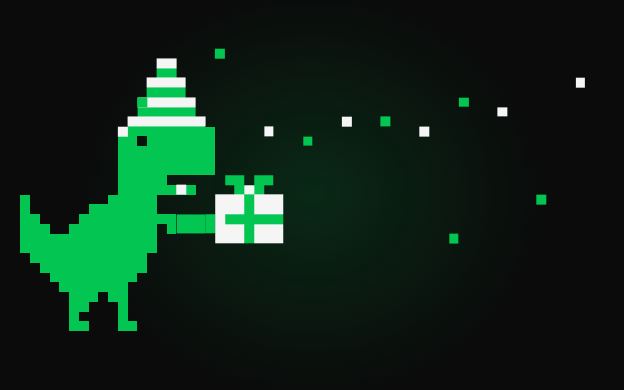
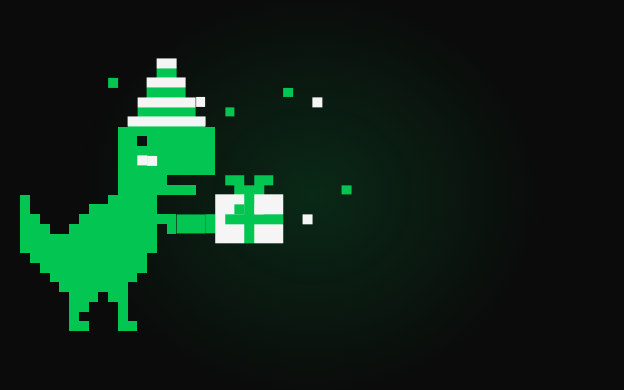
docs: session 11h follow-up 2, step spacing and confetti captures
Claude-Session: https://claude.ai/code/session_011Bwqbz1xrnbmBZhafCKopb

diff --git a/docs/PLAN.md b/docs/PLAN.md
@@ -279,4 +279,4 @@ Decided the same day (Session 11g): Terminal ships as the default; Chat and Badg
 
 ## 22. Amendments — the dino process scene, reviewed (September 8, 2026)
 
-Ashton's review of §21, applied the same day (Session 11h). **Hats are worn**: every hat's brim covers the head's top row and is drawn the head's width, so the deerstalker, the hard hat (now a dome with a ridge and a visor, not a cone) and the party hat sit on the head. **The team is the same dino**: Match shows the footer T-rex three times, the lead facing two mirrored teammates, one in square glasses and one in a backwards cap; the other species are gone. **Deliver has one dinosaur**: the partner is gone, the T-rex holds the gift out at its side toward the step text and the confetti falls across the whole stage; the arm stays joined to the body and to the box in every frame (it gains a cell as the box is pushed forward). **The dissolve runs on its own clock**: the scroll only picks the step (nearest step centre, with a small hysteresis band at each midpoint), and the scene then dissolves to it cell by cell over about half a second and holds, so each picture is on screen for the whole of its step and no scroll position lands inside a transition; reduced motion cuts instead. Nothing attached to the body is ever translated: the magnifying glass lifts one row rather than circling, and each moving prop is drawn as whole frames that start beside the hand. Later the same day (September 9): the teammates are two smaller plain copies of the T-rex (a hand-reduced 14 × 16 map on the same grid), one pink and one blue; `--pink #FF3D9E` and `--blue #3388FF` join the palette as decoration-only tokens built like the greens, and the glasses and the cap are gone.
+Ashton's review of §21, applied the same day (Session 11h). **Hats are worn**: every hat's brim covers the head's top row and is drawn the head's width, so the deerstalker, the hard hat (now a dome with a ridge and a visor, not a cone) and the party hat sit on the head. **The team is the same dino**: Match shows the footer T-rex three times, the lead facing two mirrored teammates, one in square glasses and one in a backwards cap; the other species are gone. **Deliver has one dinosaur**: the partner is gone, the T-rex holds the gift out at its side toward the step text and the confetti falls across the whole stage; the arm stays joined to the body and to the box in every frame (it gains a cell as the box is pushed forward). **The dissolve runs on its own clock**: the scroll only picks the step (nearest step centre, with a small hysteresis band at each midpoint), and the scene then dissolves to it cell by cell over about half a second and holds, so each picture is on screen for the whole of its step and no scroll position lands inside a transition; reduced motion cuts instead. Nothing attached to the body is ever translated: the magnifying glass lifts one row rather than circling, and each moving prop is drawn as whole frames that start beside the hand. Later the same day (September 9): the teammates are two smaller plain copies of the T-rex (a hand-reduced 14 × 16 map on the same grid), one pink and one blue; `--pink #FF3D9E` and `--blue #3388FF` join the palette as decoration-only tokens built like the greens, and the glasses and the cap are gone. Later on September 9: every step is a viewport tall from lg and 60% of one on phones, so a scroll gesture cannot fly past a step, and the confetti falls only over the dino and the gift.

diff --git a/docs/PROGRESS.md b/docs/PROGRESS.md
@@ -133,8 +133,7 @@ still, `process-<width>.png` the section, `nonprofits-how-it-works-1440.png` the
 3. Nothing attached to the body is ever translated: the offer is an extra arm cell plus the
    box moving, the peer is a vertical lift (the handle's first cell stays beside the hand).
 
-**TODO:** Ashton's second look at the scene (the confetti-only right
-half of Deliver now that the partner is gone).
+**TODO:** Ashton's next look at the scene and the step spacing.
 
 **Follow-up (2026-09-09, the same session):** Ashton, on Match: "remove the different
 accessories on the 2 other dinosaurs, make those two smaller, and make one pink and one blue
@@ -153,6 +152,18 @@ the palette's construction. Checked: `pnpm typecheck`, `pnpm lint`, `pnpm build`
 with the three fills, 7 loops in Match, no console errors); `scene-1-team-*.png`,
 `process-1440.png` and `nonprofits-how-it-works-1440.png` in
 `docs/screenshots/session-11h/` are re-captured.
+
+**Follow-up 2 (2026-09-09):** Ashton: "it's too easy to scroll past a certain step in the
+process", and the Deliver confetti "is reaching too far to the right". Every step is now a
+full viewport tall from lg (`lg:min-h-svh`; the middle two were 68svh, so at 900 px tall the
+scene held them for 684 px of scroll, now 900 px) and 60svh on phones (`min-h-[60svh]`; they
+had no minimum and ran about 280 px, now 506 px at 844 px tall), so a step holds for that
+much scroll and one gesture does not fly past it. The confetti is twelve cells over the dino
+and the gift (local columns 9 to 33, stage columns 11 to 35; it reached column 59). Checked:
+`pnpm typecheck`, `pnpm lint`, `pnpm build`, `pnpm a11y` (0 violations on `/`), a Playwright
+pass measuring the step heights and centre gaps (900 / 900 / 900 at 1440 × 900, 506 / 506 /
+506 at 390 × 844) and the confetti runs (columns 11 to 35); `scene-3-party-*.png` and
+`process-*.png` (the section, now at Build) re-captured.
 
 ## Session 11g — 2026-09-08 (the hero and Get involved shortlists)
 
